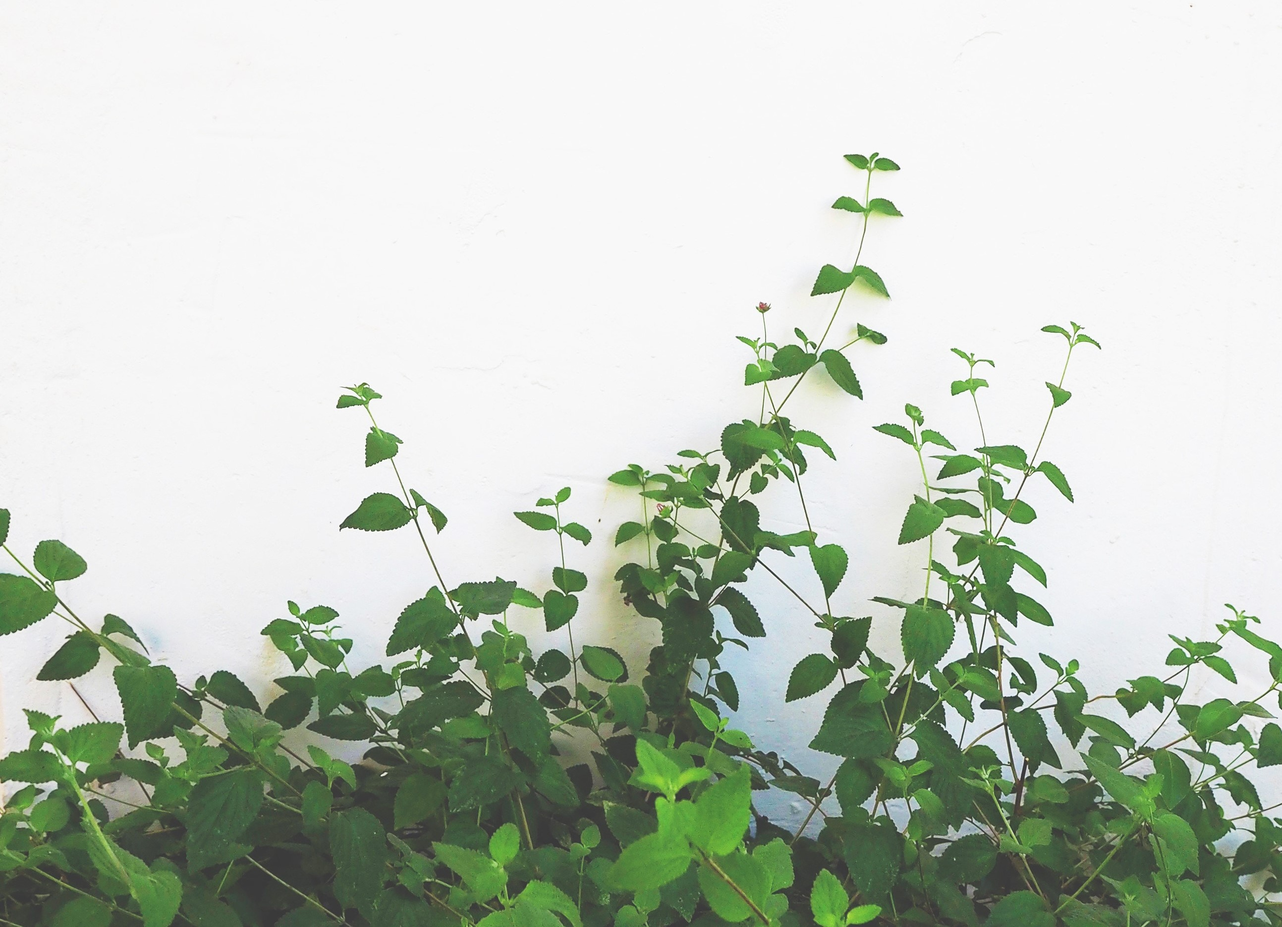
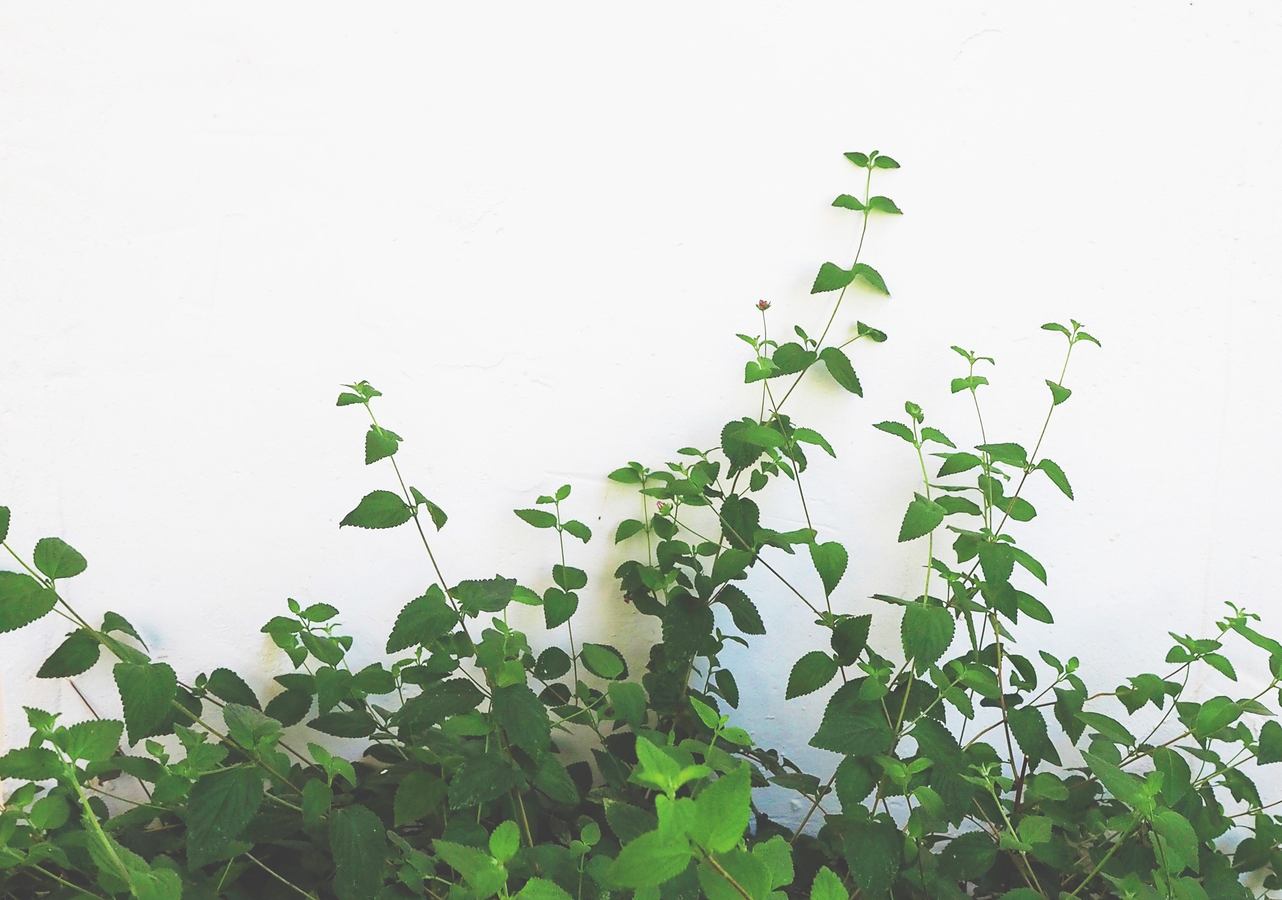
change background image on projects' pages

diff --git a/style.css b/style.css
@@ -198,7 +198,7 @@ header {
 .not-index {
 	padding: 0 0.8em;
 	border-top: 1px solid #000;
-	background-color: #F7F7F7;
+	background-color: #FED749;
 	position: relative;
 }
 
@@ -241,7 +241,7 @@ footer p {
 
 .project__content {
 	height: 100%;
-	background: url('pics/georgie-cobbs-385074.jpg') center/cover no-repeat;
+	background: url('pics/georgie-cobbs-467923-2.jpg') center/cover no-repeat;
 }
 
 .project__about {
